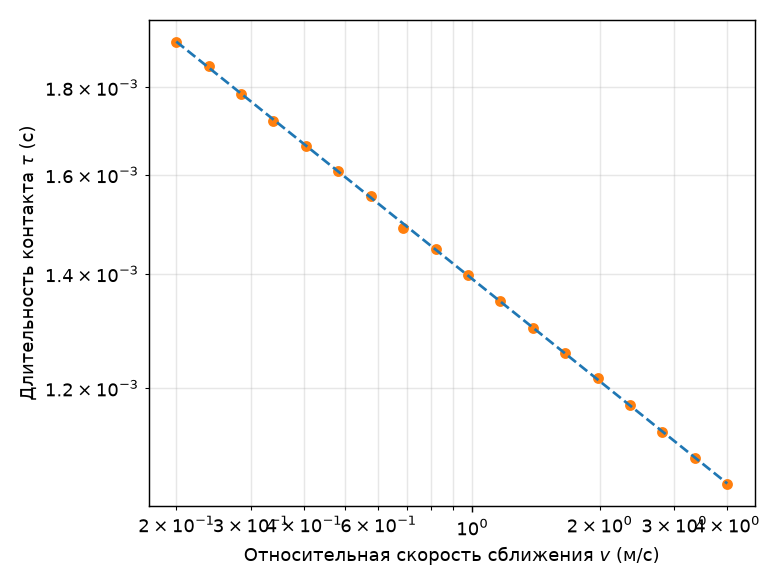
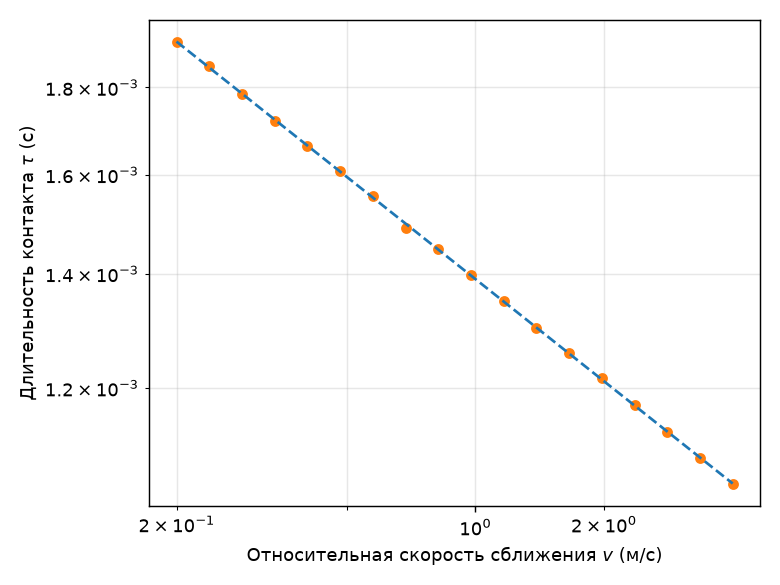
fix: plot measurement overlap

diff --git a/src/scripts/contact_duration.py b/src/scripts/contact_duration.py
@@ -9,6 +9,8 @@ import numpy as np
 
 matplotlib.use("Agg")
 import matplotlib.pyplot as plt
+from matplotlib.backends.backend_agg import FigureCanvasAgg
+from matplotlib.ticker import LogLocator
 
 from src.physics.integrator import integrator
 from src.physics.scenarios import DEFAULT_K
@@ -43,6 +45,36 @@ mask = ~np.isnan(durations)
 slope, intercept = np.polyfit(np.log(speeds[mask]), np.log(durations[mask]), 1)
 print(f"fitted slope (theory: -1/5 = -0.2): {slope:.4f}")
 
+def _labels_overlap(fig: plt.Figure, ax: plt.Axes) -> bool:
+    fig.canvas.draw()
+    assert isinstance(fig.canvas, FigureCanvasAgg)
+    renderer = fig.canvas.get_renderer()
+    boxes = [
+        label.get_window_extent(renderer=renderer)
+        for label in ax.get_xticklabels(which="both")
+        if label.get_text()
+    ]
+    boxes.sort(key=lambda b: b.x0)
+    return any(a.x1 > b.x0 for a, b in zip(boxes, boxes[1:]))
+
+
+def _fit_xticks(fig: plt.Figure, ax: plt.Axes) -> None:
+    # Подписи промежуточных (minor) делений лог-шкалы перекрываются при узком
+    # диапазоне (< 2 декад) — подбираем самый частый набор чисел, который ещё
+    # помещается без наложения, вместо того чтобы гадать один вариант.
+    candidate_subs = [
+        (1, 2, 3, 4, 5, 6, 7, 8, 9),
+        (1, 2, 3, 5, 7),
+        (1, 2, 5),
+        (1, 3),
+        (1,),
+    ]
+    for subs in candidate_subs:
+        ax.xaxis.set_minor_locator(LogLocator(base=10, subs=subs))
+        if not _labels_overlap(fig, ax):
+            return
+
+
 fig, ax = plt.subplots(figsize=(6, 4.5))
 ax.loglog(speeds, durations, "o", ms=5, color="tab:orange")
 fit_line = np.exp(intercept) * speeds**slope
@@ -50,6 +82,8 @@ ax.loglog(speeds, fit_line, "--", color="tab:blue")
 ax.set_xlabel(r"Относительная скорость сближения $v$ (м/с)")
 ax.set_ylabel(r"Длительность контакта $\tau$ (с)")
 ax.grid(alpha=0.3, which="both")
+fig.tight_layout()
+_fit_xticks(fig, ax)
 fig.tight_layout()
 
 out_path = ROOT / "docs" / "contact_duration.png"
